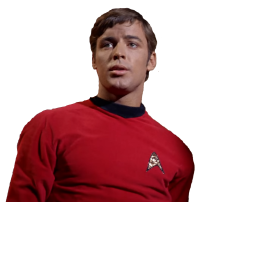
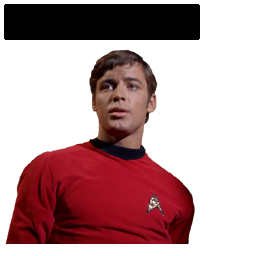
Nameplate display

diff --git a/core/src/main/java/com/gempukku/startrek/game/PlayerInfoRenderingSystem.java b/core/src/main/java/com/gempukku/startrek/game/PlayerInfoRenderingSystem.java
@@ -1,0 +1,89 @@
+package com.gempukku.startrek.game;
+
+import com.artemis.Aspect;
+import com.artemis.BaseEntitySystem;
+import com.artemis.Entity;
+import com.artemis.utils.IntBag;
+import com.badlogic.gdx.math.Matrix4;
+import com.badlogic.gdx.utils.ObjectMap;
+import com.gempukku.libgdx.lib.artemis.camera.CameraSystem;
+import com.gempukku.libgdx.lib.artemis.spawn.SpawnSystem;
+import com.gempukku.libgdx.lib.artemis.texture.TextureReference;
+import com.gempukku.libgdx.lib.artemis.transform.TransformSystem;
+import com.gempukku.libgdx.lib.graph.artemis.sdf3dfont.SDF3DTextComponent;
+import com.gempukku.libgdx.lib.graph.artemis.sdf3dfont.SDF3DTextSystem;
+import com.gempukku.libgdx.lib.graph.artemis.sdf3dfont.SDFTextBlock;
+import com.gempukku.libgdx.lib.graph.artemis.sprite.SpriteComponent;
+
+public class PlayerInfoRenderingSystem extends BaseEntitySystem {
+    private PlayerPositionSystem playerPositionSystem;
+    private CameraSystem cameraSystem;
+    private SpawnSystem spawnSystem;
+    private TransformSystem transformSystem;
+    private SDF3DTextSystem textSystem;
+
+    private int addedPlayers = 0;
+    private ObjectMap<String, Integer> displayedPoints = new ObjectMap<>();
+    private ObjectMap<String, Entity> nameplates = new ObjectMap<>();
+
+    public PlayerInfoRenderingSystem() {
+        super(Aspect.all(GamePlayerComponent.class));
+    }
+
+    @Override
+    protected void processSystem() {
+        if (addedPlayers < 2) {
+            createPlayerNameplates();
+        } else {
+            IntBag playerIds = getSubscription().getEntities();
+            for (int i = 0; i < playerIds.size(); i++) {
+                Entity playerEntity = world.getEntity(playerIds.get(i));
+                GamePlayerComponent player = playerEntity.getComponent(GamePlayerComponent.class);
+                PlayerPublicStatsComponent playerStats = playerEntity.getComponent(PlayerPublicStatsComponent.class);
+                String username = player.getName();
+                int playerPoints = playerStats.getPointCount();
+                if (playerPoints != displayedPoints.get(username)) {
+                    Entity nameplateEntity = nameplates.get(username);
+                    SDF3DTextComponent textBlocks = nameplateEntity.getComponent(SDF3DTextComponent.class);
+                    SDFTextBlock pointsText = textBlocks.getTextBlocks().get(1);
+                    pointsText.setText(String.valueOf(playerPoints));
+                    displayedPoints.put(username, playerPoints);
+                    textSystem.updateText(nameplateEntity.getId(), 1);
+                }
+            }
+        }
+    }
+
+    private void createPlayerNameplates() {
+        IntBag playerIds = getSubscription().getEntities();
+        for (int i = 0; i < playerIds.size(); i++) {
+            Entity playerEntity = world.getEntity(playerIds.get(i));
+            GamePlayerComponent player = playerEntity.getComponent(GamePlayerComponent.class);
+
+            Entity nameplateEntity = spawnSystem.spawnEntity("game/playerNameplate.template");
+            nameplates.put(player.getName(), nameplateEntity);
+
+            SpriteComponent sprites = nameplateEntity.getComponent(SpriteComponent.class);
+            TextureReference avatarTexture = (TextureReference) sprites.getSprites().get(0).getProperties().get("Texture");
+            avatarTexture.setRegion(player.getAvatar());
+
+            SDF3DTextComponent textBlocks = nameplateEntity.getComponent(SDF3DTextComponent.class);
+            SDFTextBlock displayNameText = textBlocks.getTextBlocks().get(0);
+            displayNameText.setText(player.getDisplayName());
+
+            SDFTextBlock pointsText = textBlocks.getTextBlocks().get(1);
+            pointsText.setText("0");
+            displayedPoints.put(player.getName(), 0);
+
+            PlayerPosition playerPosition = playerPositionSystem.getPlayerPosition(player.getName());
+
+            float zTranslate = playerPosition == PlayerPosition.Lower ? 0.7f : -0.7f;
+
+            transformSystem.setTransform(nameplateEntity,
+                    new Matrix4()
+                            .translate(-6f, 0f, zTranslate));
+
+            addedPlayers++;
+        }
+    }
+}

diff --git a/core/src/main/java/com/gempukku/libgdx/lib/artemis/texture/SlotLoadingTextureHandler.java b/core/src/main/java/com/gempukku/libgdx/lib/artemis/texture/SlotLoadingTextureHandler.java
@@ -115,6 +115,7 @@ public class SlotLoadingTextureHandler implements TextureHandler, Disposable {
         public void addImage(String path, ImageLoadNotifier imageLoadNotifier) {
             assetManager.load(path, Pixmap.class);
             LoadingImage loadingImage = insertIntoCells(path, imageLoadNotifier);
+            System.out.println("Adding: " + loadingImage);
             loading.add(loadingImage);
             loadingImageMap.put(path, loadingImage);
             remainingSpace--;
@@ -146,9 +147,11 @@ public class SlotLoadingTextureHandler implements TextureHandler, Disposable {
 
         public void update() {
             assetManager.update();
-            for (LoadingImage loadingImage : loading) {
+            ObjectSet.ObjectSetIterator<LoadingImage> loadingIterator = loading.iterator();
+            while (loadingIterator.hasNext()) {
+                LoadingImage loadingImage = loadingIterator.next();
                 if (loadingImage.update()) {
-                    loading.remove(loadingImage);
+                    loadingIterator.remove();
                 }
             }
         }

diff --git a/core/src/main/java/com/gempukku/libgdx/lib/graph/artemis/sdf3dfont/SDF3DTextSystem.java b/core/src/main/java/com/gempukku/libgdx/lib/graph/artemis/sdf3dfont/SDF3DTextSystem.java
@@ -72,6 +72,10 @@ public class SDF3DTextSystem extends BaseEntitySystem {
         if (spriteBatchModel == null) {
             initializeSpriteBatchModel();
         }
+        addSprites(entityId);
+    }
+
+    private void addSprites(int entityId) {
         Entity textEntity = world.getEntity(entityId);
         Matrix4 resolvedTransform = transformSystem.getResolvedTransform(textEntity);
 
@@ -96,11 +100,14 @@ public class SDF3DTextSystem extends BaseEntitySystem {
         }
     }
 
-    public void updateSDFTexts(int entityId) {
+    public void updateTexts(int entityId) {
+        removed(entityId);
+        addSprites(entityId);
+    }
+
+    public void updateText(int entityId, int textIndex) {
         Array<SDFText> texts = renderedTexts.get(entityId);
-        for (SDFText text : texts) {
-            text.updateSprites();
-        }
+        texts.get(textIndex).updateSprites();
     }
 
     @Override

diff --git a/core/src/main/java/com/gempukku/libgdx/lib/graph/artemis/sprite/SpriteSystem.java b/core/src/main/java/com/gempukku/libgdx/lib/graph/artemis/sprite/SpriteSystem.java
@@ -89,7 +89,7 @@ public class SpriteSystem extends BaseSystem implements Disposable {
                 );
     }
 
-    public void updateSprite(int entityId) {
+    public void updateSprites(int entityId) {
         Entity spriteEntity = world.getEntity(entityId);
         SpriteComponent sprite = spriteEntity.getComponent(SpriteComponent.class);
 
@@ -111,7 +111,7 @@ public class SpriteSystem extends BaseSystem implements Disposable {
     public void transformUpdated(TransformUpdated transformUpdated, Entity entity) {
         int entityId = entity.getId();
         if (spriteMap.containsKey(entityId))
-            updateSprite(entity.getId());
+            updateSprites(entity.getId());
     }
 
     @EventListener

diff --git a/core/src/main/java/com/gempukku/startrek/hall/screen/HomeScreen.java b/core/src/main/java/com/gempukku/startrek/hall/screen/HomeScreen.java
@@ -117,7 +117,7 @@ public class HomeScreen extends Table implements HallScreen {
         middleContent.add().expand().fillY().row();
 
         Table rightContent = new Table(skin);
-        rightContent.add(new Image(textureSystem.getTextureRegion("images/portrait/" + gameHallPlayer.getAvatar() + ".png", gameHallPlayer.getAvatar()))).row();
+        rightContent.add(new Image(textureSystem.getTextureRegion("atlas/avatars.atlas", gameHallPlayer.getAvatar()))).row();
         rightTable = new Table(skin);
         rightTable.setColor(1, 1, 1, 0);
         rightContent.add(rightTable).expand().fillY().row();

diff --git a/server/src/test/java/com/gempukku/startrek/server/game/GameSetupTest.java b/server/src/test/java/com/gempukku/startrek/server/game/GameSetupTest.java
@@ -29,8 +29,8 @@ public class GameSetupTest {
     public void gameSetupTest() {
         StarTrekDeck testDeck = createTestDeck();
         StarTrekGameHolder gameHolder = new StarTrekGameHolder(cardData);
-        gameHolder.addPlayer("test1", testDeck);
-        gameHolder.addPlayer("test2", testDeck);
+        gameHolder.addPlayer(new PlayerGameInfo("test1", "test1", "test", testDeck));
+        gameHolder.addPlayer(new PlayerGameInfo("test2", "test2", "test", testDeck));
         gameHolder.setupGame();
         gameHolder.processGame();
 

diff --git a/core/src/main/java/com/gempukku/startrek/WorldCreatingVisitor.java b/core/src/main/java/com/gempukku/startrek/WorldCreatingVisitor.java
@@ -109,8 +109,9 @@ public class WorldCreatingVisitor implements GameSceneVisitor<World> {
                 new IncomingUpdatesProcessor(),
 
                 new CardLookupSystem(cardData),
+                new PlayerPositionSystem(),
                 new CardInGameRenderingSystem(),
-                new PlayerPositionSystem());
+                new PlayerInfoRenderingSystem());
 
         World world = new World(worldConfigurationBuilder.build());
         SpawnSystem spawnSystem = world.getSystem(SpawnSystem.class);

diff --git a/core/src/main/java/com/gempukku/startrek/game/CardInGameRenderingSystem.java b/core/src/main/java/com/gempukku/startrek/game/CardInGameRenderingSystem.java
@@ -275,6 +275,7 @@ public class CardInGameRenderingSystem extends BaseSystem {
 
         Camera camera = cameraSystem.getCamera();
         float verticalScale = 0.85f;
+        verticalScale = 0.4f;
         float distanceFromCamera = 3f;
         float cardSeparation = 0.15f;
         float cardScale = 0.4f;
